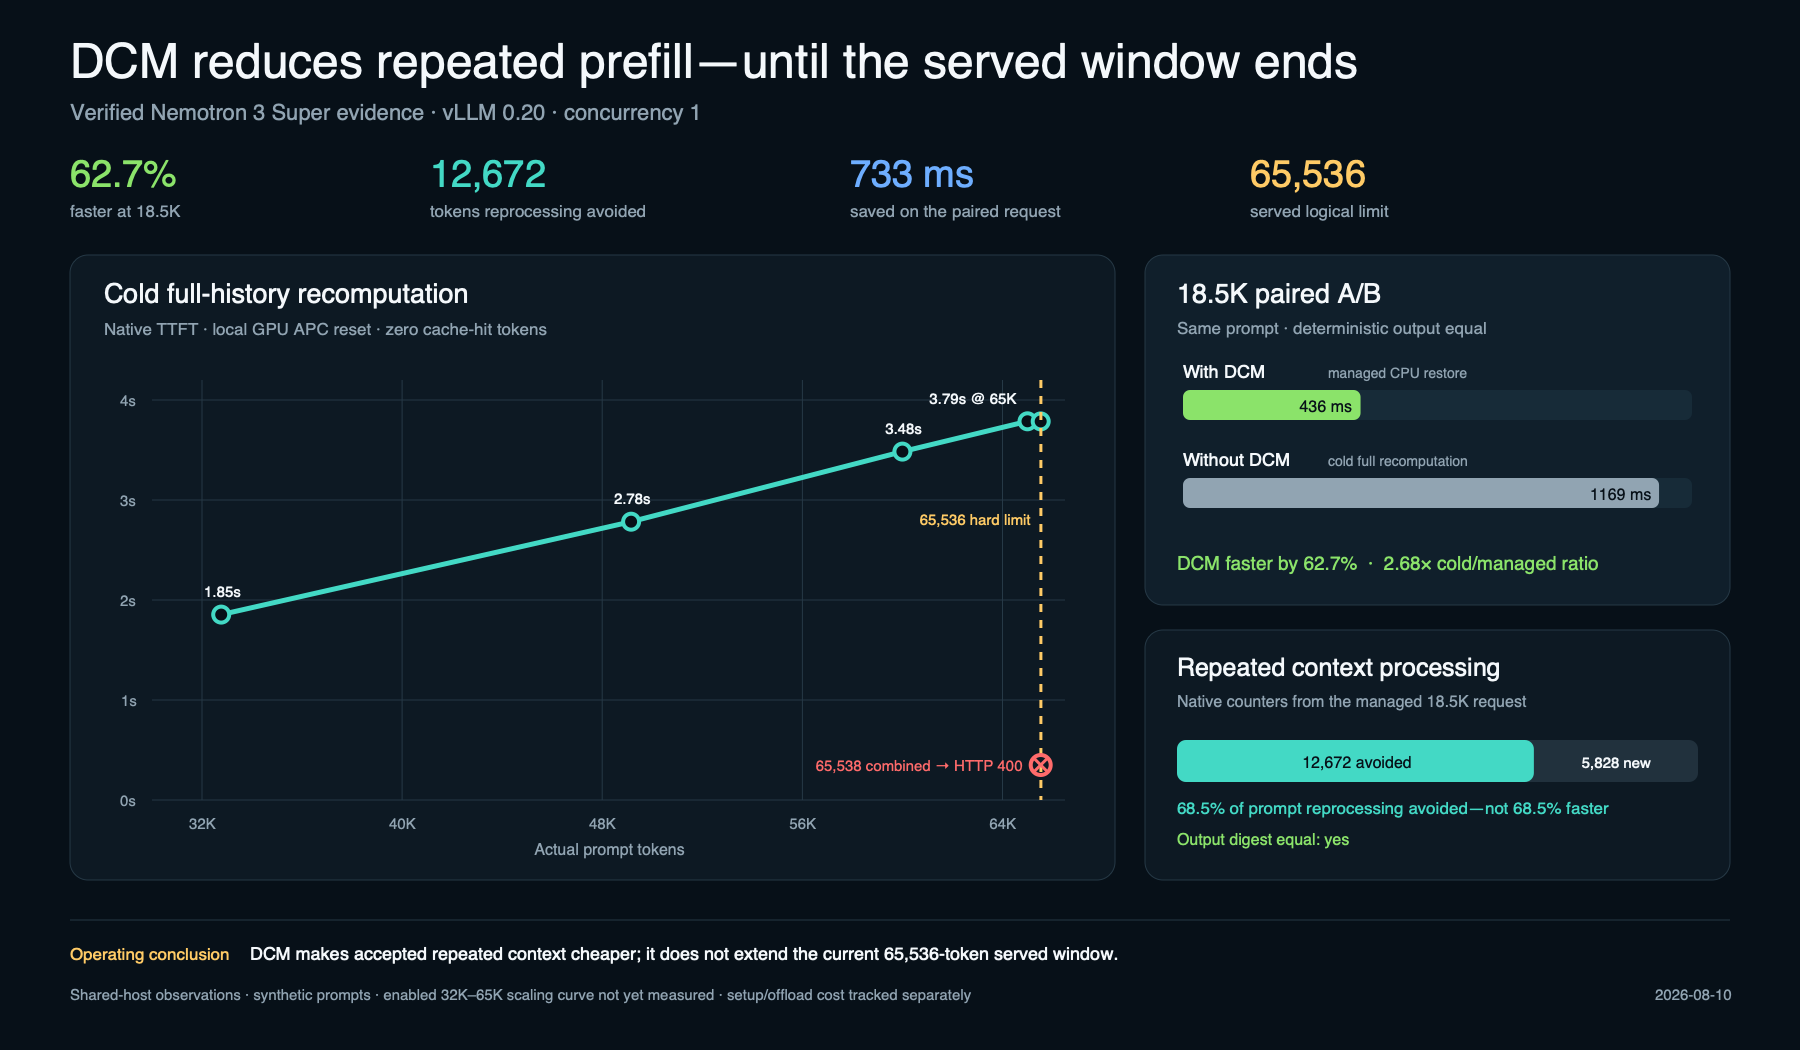
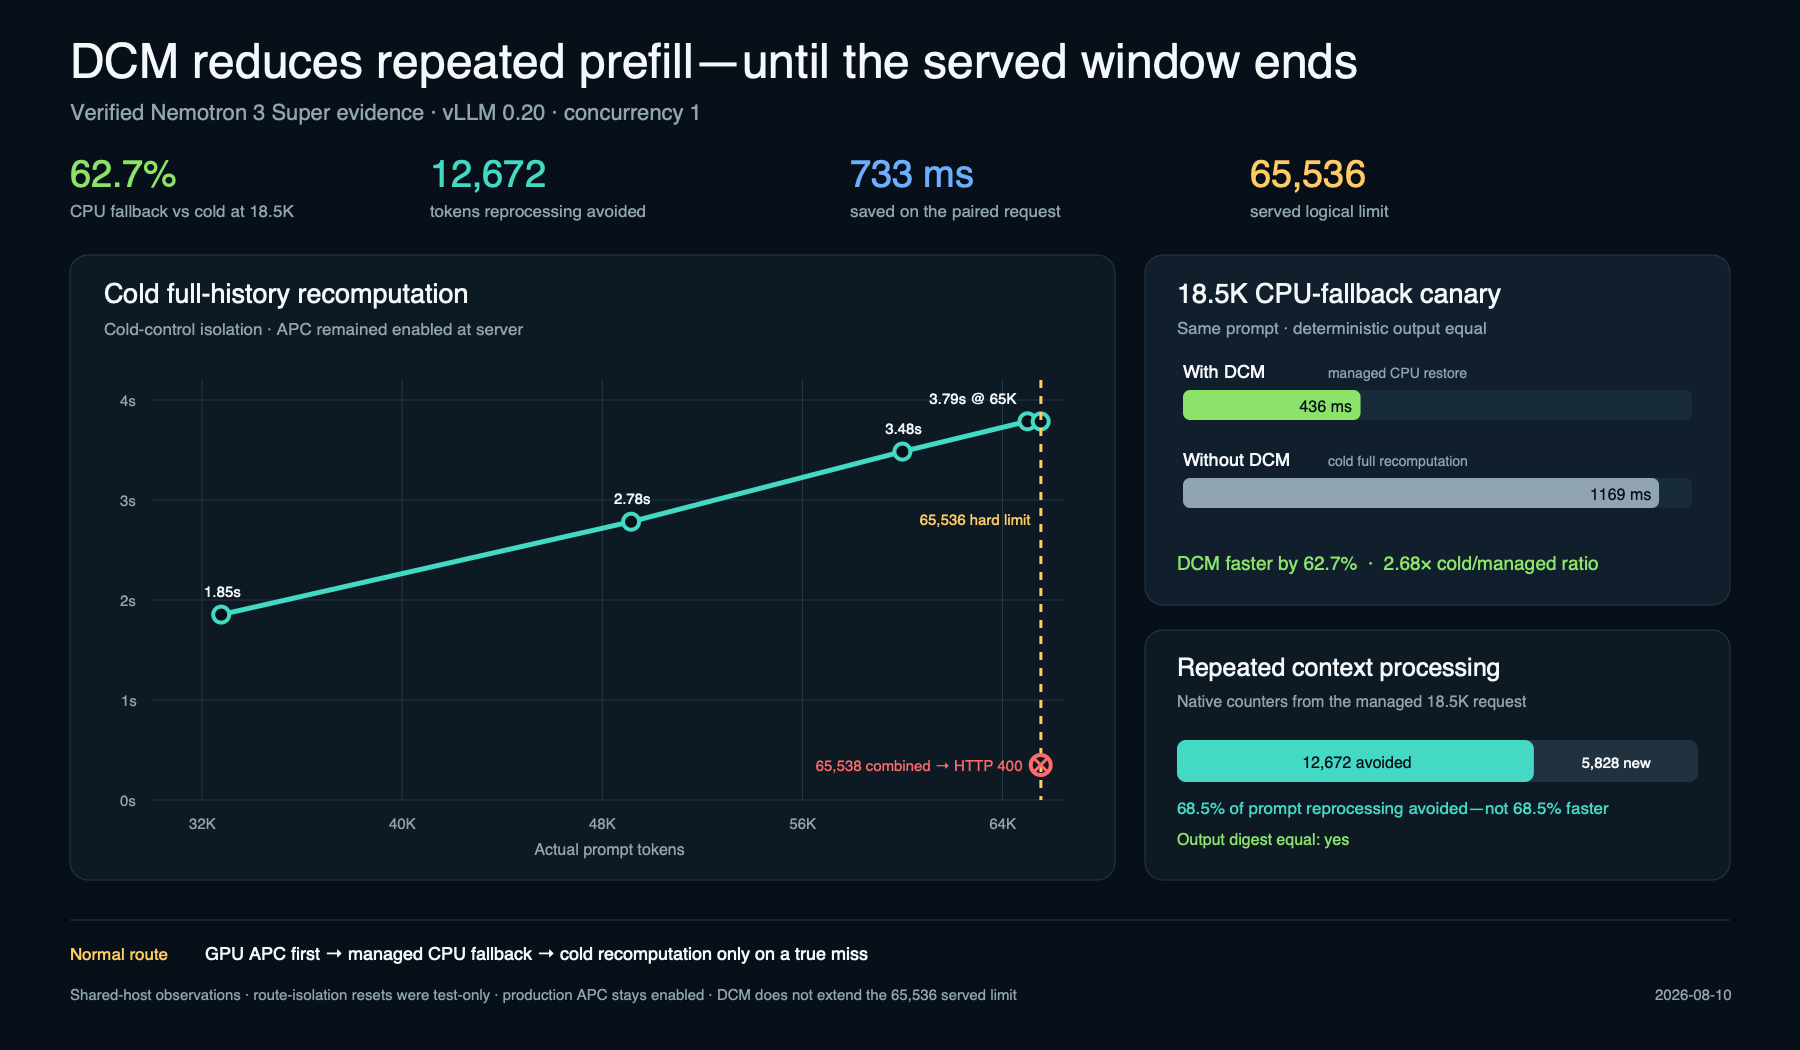
Clarify GPU-first normal serving path

diff --git a/docs/artifacts/render_vllm_context_exhaustion_chart.py b/docs/artifacts/render_vllm_context_exhaustion_chart.py
@@ -72,7 +72,7 @@ def main() -> None:
 
     # KPI strip.
     kpis = [
-        (70, "62.7%", "faster at 18.5K", GREEN),
+        (70, "62.7%", "CPU fallback vs cold at 18.5K", GREEN),
         (430, "12,672", "tokens reprocessing avoided", CYAN),
         (850, "733 ms", "saved on the paired request", BLUE),
         (1250, "65,536", "served logical limit", AMBER),
@@ -88,7 +88,7 @@ def main() -> None:
     svg.append(rect(px, py, pw, ph, PANEL, stroke=GRID))
     svg.extend([
         text(px + 34, py + 48, "Cold full-history recomputation", 27, weight=680),
-        text(px + 34, py + 80, "Native TTFT · local GPU APC reset · zero cache-hit tokens", 17, fill=MUTED),
+        text(px + 34, py + 80, "Cold-control isolation · APC remained enabled at server", 17, fill=MUTED),
     ])
     chart_x0, chart_y0 = px + 82, py + 125
     chart_w, chart_h = pw - 132, ph - 205
@@ -141,7 +141,7 @@ def main() -> None:
     rx, ry, rw, rh = 1145, 255, 585, 350
     svg.append(rect(rx, ry, rw, rh, PANEL_2, stroke=GRID))
     svg.extend([
-        text(rx + 32, ry + 48, "18.5K paired A/B", 27, weight=680),
+        text(rx + 32, ry + 48, "18.5K CPU-fallback canary", 27, weight=680),
         text(rx + 32, ry + 79, "Same prompt · deterministic output equal", 17, fill=MUTED),
     ])
     bar_x0, bar_y0, bar_w, max_ms = rx + 38, ry + 135, rw - 76, 1250.0
@@ -184,9 +184,9 @@ def main() -> None:
     # Footer / limitations.
     svg.extend([
         line(70, 920, 1730, 920, stroke=GRID),
-        text(70, 960, "Operating conclusion", 17, fill=AMBER, weight=750),
-        text(250, 960, "DCM makes accepted repeated context cheaper; it does not extend the current 65,536-token served window.", 18, weight=560),
-        text(70, 1000, "Shared-host observations · synthetic prompts · enabled 32K–65K scaling curve not yet measured · setup/offload cost tracked separately", 15, fill=MUTED),
+        text(70, 960, "Normal route", 17, fill=AMBER, weight=750),
+        text(205, 960, "GPU APC first → managed CPU fallback → cold recomputation only on a true miss", 18, weight=620),
+        text(70, 1000, "Shared-host observations · route-isolation resets were test-only · production APC stays enabled · DCM does not extend the 65,536 served limit", 15, fill=MUTED),
         text(1730, 1000, "2026-08-10", 15, fill=MUTED, anchor="end"),
     ])
 

diff --git a/docs/vllm-context-exhaustion-ab.md b/docs/vllm-context-exhaustion-ab.md
@@ -7,7 +7,26 @@ This campaign answers two different questions and keeps their evidence separate.
 
 A checkpoint can reduce repeated prefill work. It does **not** extend the runtime's served logical context limit. Context compaction, exact page selection, and future scheduler-level active paging are separate mechanisms.
 
-## Paired A/B contract
+## Production operating contract
+
+Production vLLM runs normally with Automatic Prefix Caching enabled. The serving
+order is GPU-first:
+
+1. resident local GPU APC;
+2. controller-authorized managed CPU checkpoint fallback for any remaining exact prefix;
+3. cold recomputation only when neither tier can satisfy the prefix.
+
+"DCM disabled" in an A/B means that the request has no Daystrom restore
+authorization; it does **not** mean APC is disabled. Local GPU APC resets are
+allowed only in an isolated route-proof canary where they are needed to prove
+that native reuse came from the CPU connector. They are not the production
+operating policy and are not appropriate for a normal-operation workload test.
+
+A production-representative campaign leaves APC enabled and untouched, records
+the naturally selected `gpu_apc`, `cpu_fallback`, mixed, or `miss` route for
+every request, and reports route distribution alongside latency and fidelity.
+
+## Paired route-isolation A/B contract
 
 `dml_core/scripts/dcm_context_exhaustion_ab.py` runs a growing sequence of tokenizer-calibrated plans. For every rung it randomizes the order of two identical-prompt lanes:
 
